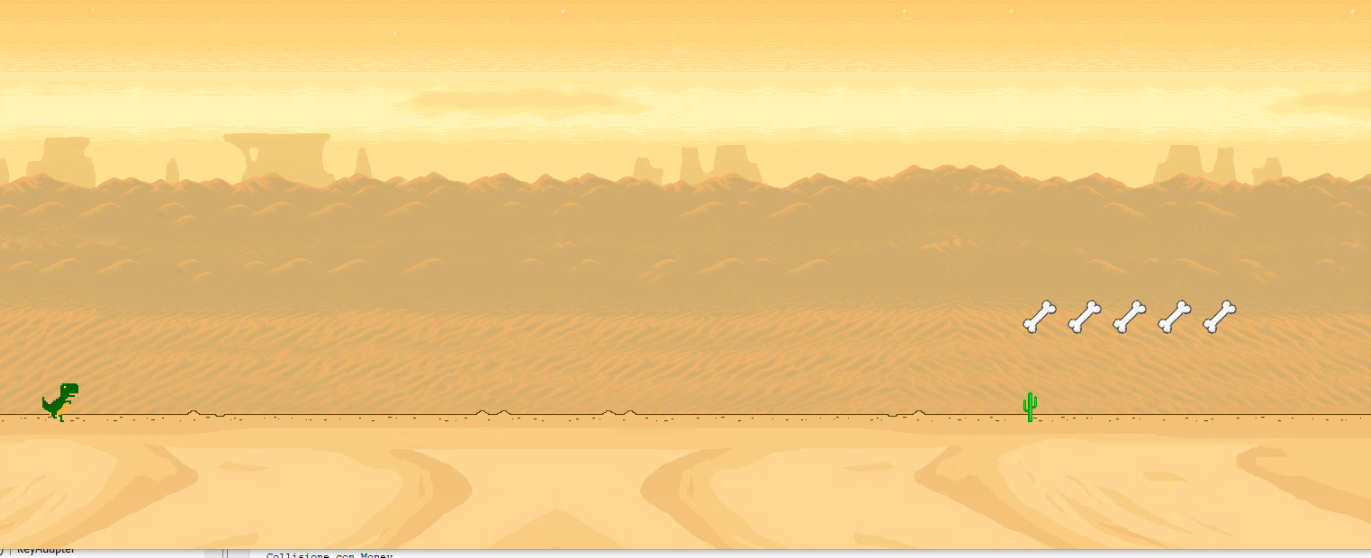
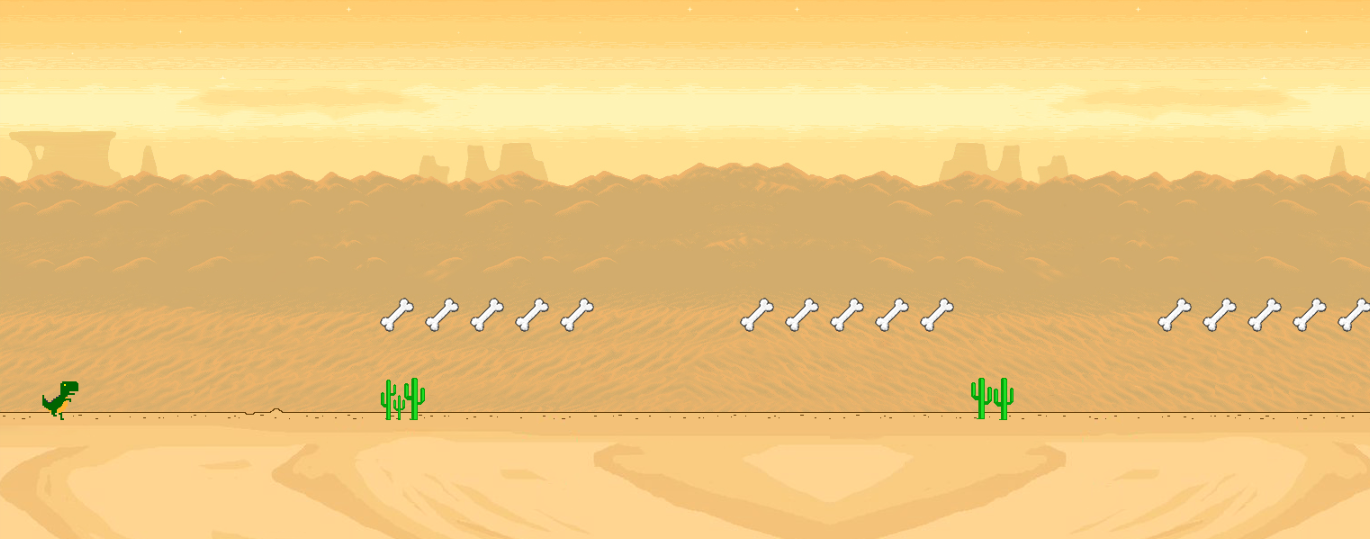
homepage

diff --git a/src/general/HomePage.java b/src/general/HomePage.java
@@ -8,6 +8,7 @@ package general;
 import java.awt.Font;
 import java.awt.Graphics;
 import java.awt.Image;
+import java.awt.Toolkit;
 import java.awt.event.ActionEvent;
 import java.awt.event.ActionListener;
 import java.awt.image.BufferedImage;
@@ -23,10 +24,12 @@ import utility.Utility;
 public class HomePage{
     
     public static void main(String[] args) {
+        int width = (int)(Toolkit.getDefaultToolkit().getScreenSize().getWidth()*0.8);
+        int height = (int)(Toolkit.getDefaultToolkit().getScreenSize().getHeight()*0.7);
         JFrame frame = new JFrame();
         frame.setDefaultCloseOperation(JFrame.EXIT_ON_CLOSE);
         frame.setVisible(true);
-        frame.setSize(1371, 558);
+        frame.setSize(width, height);
         frame.setLocationRelativeTo(null);
         frame.setResizable(false);
 
@@ -36,11 +39,11 @@ public class HomePage{
                 super.paintComponent(g);
                 BufferedImage image = new Utility().create("src/image/HomePage/Title small.png");
                 BufferedImage backImage = new Utility().create("src/image/HomePage/sfondoHome.png");
-                Image scaledImage = image.getScaledInstance(714, 256, 100);
-                //Image scaledBackImage = backImage.getScaledInstance(1000, 625, 100);
-                g.drawImage(backImage, 0, 0, this);
-                g.drawImage(scaledImage, (frame.getWidth() - 714)/2, 0, this);
+                Image scaledImage = image.getScaledInstance((int) (width * 0.5), (int) (image.getHeight() * width / image.getWidth() * 0.5), 100);
+                Image scaledBackImage = backImage.getScaledInstance((int) (backImage.getWidth() * height / backImage.getHeight()), height, 100);
                 
+                g.drawImage(scaledBackImage, 0, 0, this);
+                g.drawImage(scaledImage, (int) (width - (width * 0.5))/2, 0, this);
             }
         };
         
